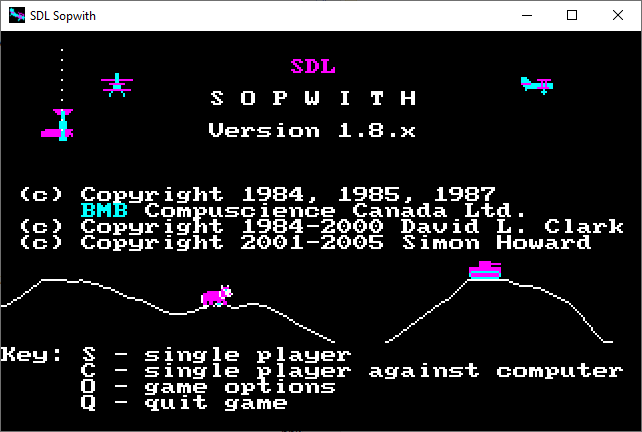
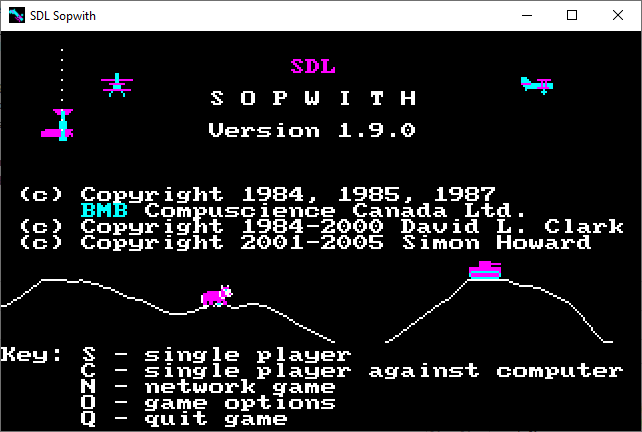
Version 1.9.0 Updated screenshot; go back to title on net disconnect.

diff --git a/msvc/config.h b/msvc/config.h
@@ -20,7 +20,7 @@
 
 /* version */
 
-#define PACKAGE_VERSION "1.8.2"
+#define PACKAGE_VERSION "1.9.0"
 #define PACKAGE_STRING "SDL Sopwith " PACKAGE_VERSION
 
 #define stricmp _stricmp

diff --git a/src/swasynio.cpp b/src/swasynio.cpp
@@ -125,7 +125,8 @@ void asynupdate(void)
 
 	if (!swNetIsConnected())
 	{
-		swend("DISCONNECTED", true);
+		fprintf(stderr, "DISCONNECTED\n");
+		swrestart();
 		return;
 	}
 
